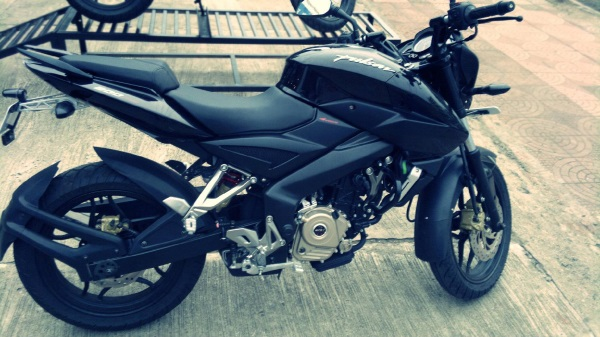
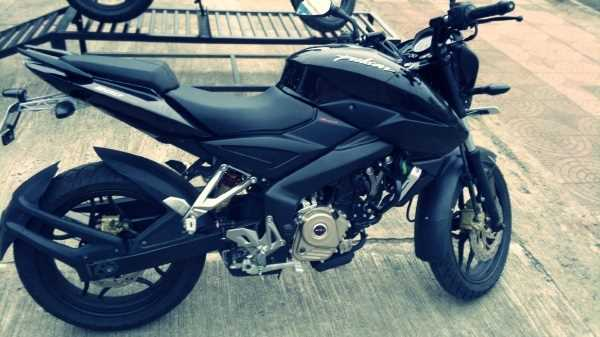
image resize and quality reduce

diff --git a/index.html b/index.html
@@ -18,7 +18,7 @@
 </head>
 <body>
 <section class="engine"><a rel="nofollow" href="http://mobirise.com">Mobirise website building software</a></section>
-<section class="mbr-box mbr-section mbr-section--relative mbr-section--fixed-size mbr-section--full-height mbr-section--bg-adapted mbr-parallax-background" id="header1-7" style="background-image: url(assets/images/11920x1080-167.png);">
+<section class="mbr-box mbr-section mbr-section--relative mbr-section--fixed-size mbr-section--full-height mbr-section--bg-adapted mbr-parallax-background" id="header1-7" style="background-image: url(assets/images/11920x1080-167.jpg);">
     <div class="mbr-box__magnet mbr-box__magnet--sm-padding mbr-box__magnet--center-center">
         <div class="mbr-overlay" style="opacity: 0.5; background-color: rgb(204, 204, 204);"></div>
         <div class="mbr-box__container mbr-section__container container">
